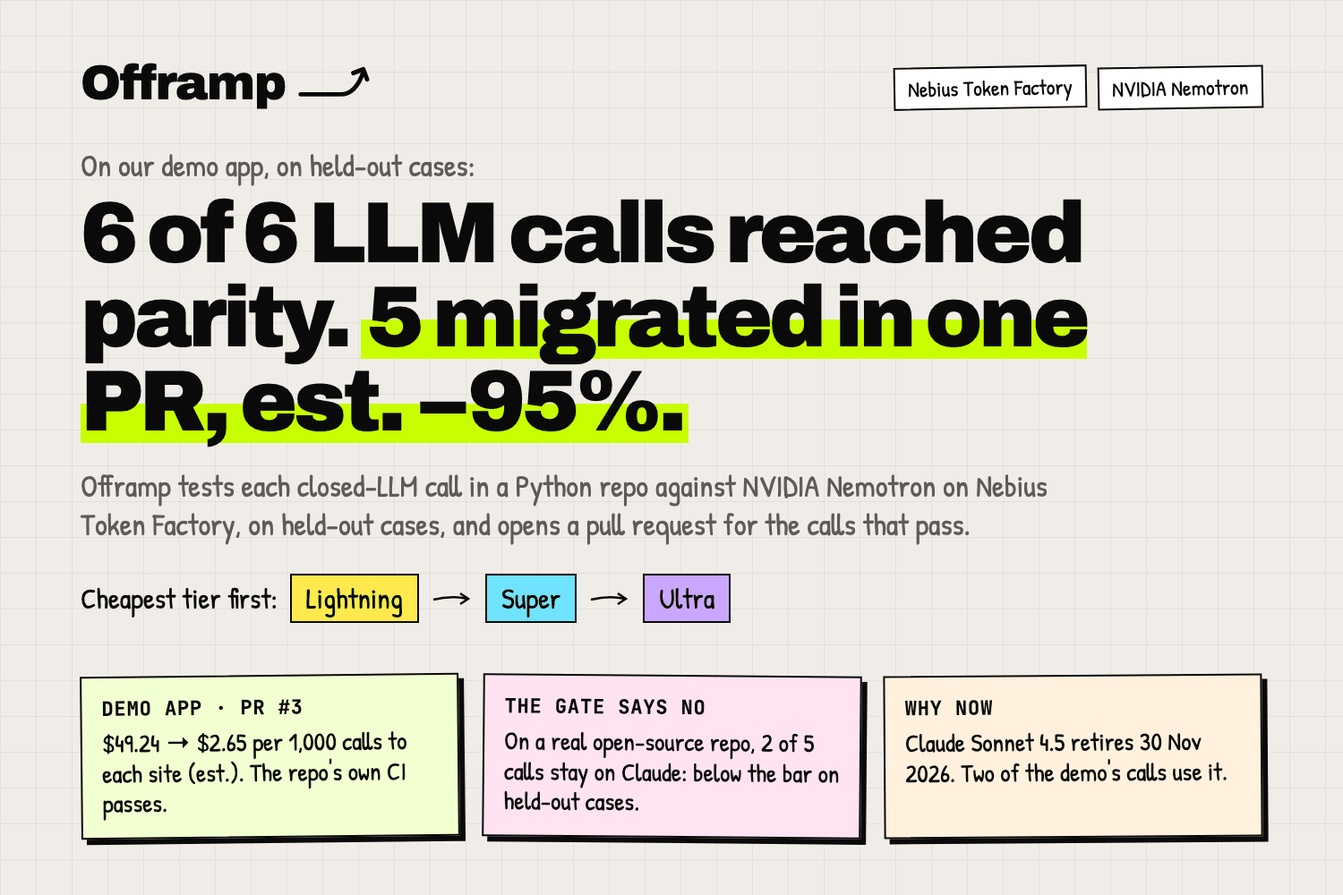
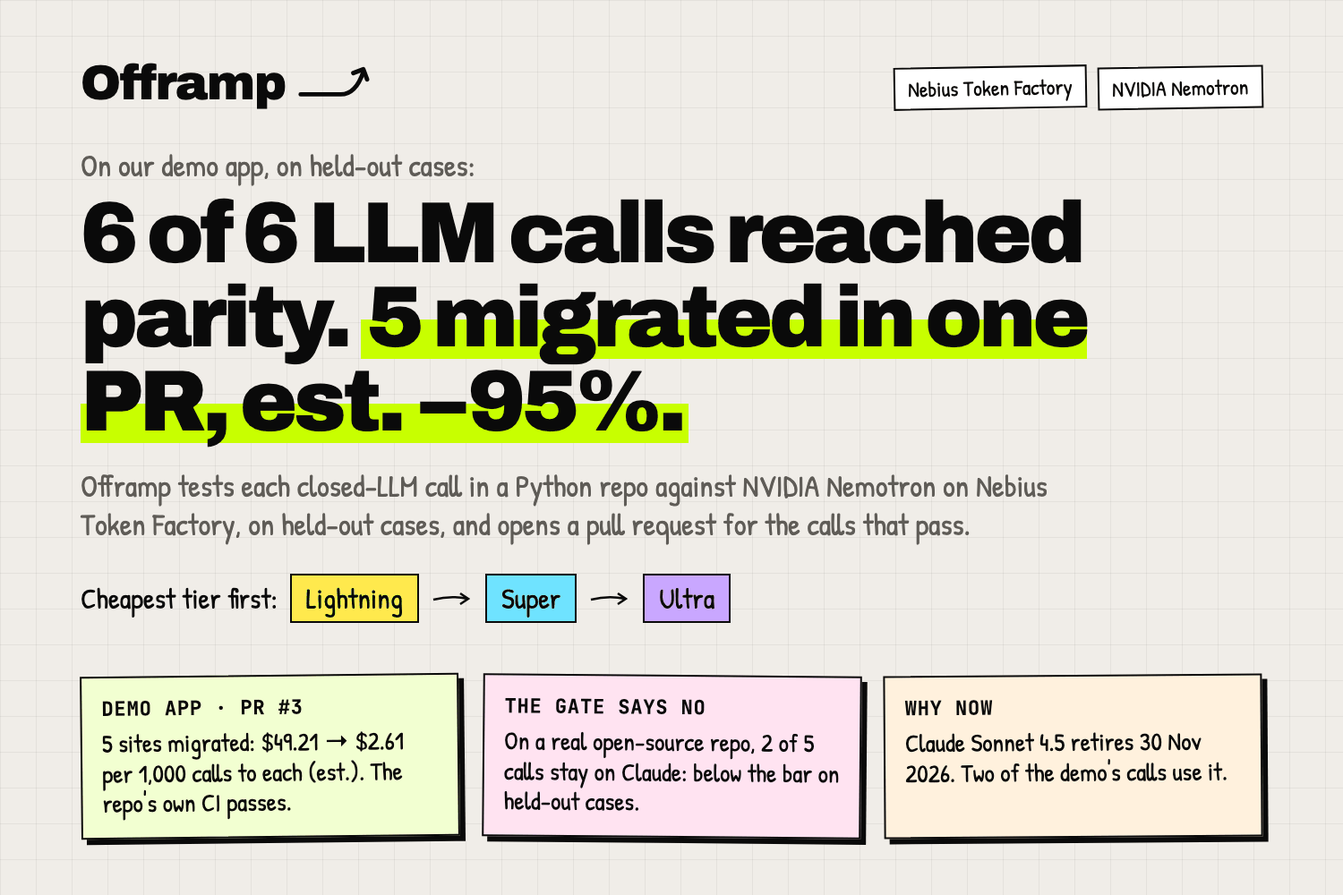
Task 31 D: docs say what happened on the open-source run; cover, footer, references
- README: OSS cs_05 (Super v3 was v2 again; its dev pass came from a fresh judge
  sample after a deleted cached reply; the holdout still failed; Ultra v2 was v1
  again), the PR's green pytest that exercised neither migrated function (cs_02's
  module skipped on importorskip("fastapi"), cs_04 untested, what a maintainer
  would need), the judge-cache item, 16 rewrites = 14 distinct adapters, the
  "other five" scope, and the 5 deleted judge replies the JSON counts miss.
- SUBMISSION: reference answers instead of "known ground truth", the "other five"
  scope, replay from the cache with run 7bea7c as the exception, Super's repeated
  rewrites on the demo's cs_04.
- FEEDBACK: by-the-numbers and item 20 disclose the 5 judge replies deleted in
  run 7bea7c (at least 6 off the rubric, 1 recorded) and the new cache rule.
- tf_stats.py counts judge requests sent with twice the room (a deleted first
  reply each); tf-production.md/json regenerated from the same cache and runs:
  only that bullet and key are new.
- web: home and report say "reference answers: seeded, computed by code, or
  written by another model family"; a text footer links the source and FEEDBACK
  (a spot is left for the video link).
- docs/media/00-cover.png: card 1 shows PR #3's own figure, $49.21 -> $2.61 on the
  5 migrated sites, rendered from T30's cover.html the way T30 did (Playwright,
  then 256-colour quantise).

Changed region(s): [[0.0613, 0.806, 0.3067, 0.93]]

diff --git a/web/app/page.tsx b/web/app/page.tsx
@@ -20,8 +20,8 @@ export default function NewRunPage() {
         </h1>
         <p className="max-w-xl text-lg leading-relaxed font-medium">
           Offramp finds every OpenAI and Anthropic call in a Python repo and shows, on held-out cases, which ones NVIDIA
-          Nemotron on Nebius Token Factory can take over, by checking them against reference answers with known ground
-          truth. It opens a pull request for the calls that reach the parity bar. The rest stay on their source model,
+          Nemotron on Nebius Token Factory can take over, by checking them against reference answers: seeded, computed
+          by code, or written by another model family. It opens a pull request for the calls that reach the parity bar. The rest stay on their source model,
           with the numbers that show why.
         </p>
         <div className="flex flex-col gap-2">

diff --git a/web/app/layout.tsx b/web/app/layout.tsx
@@ -45,6 +45,18 @@ export default function RootLayout({ children }: LayoutProps<"/">) {
           </div>
         </header>
         <main className="mx-auto max-w-6xl px-4 pt-4 pb-16 sm:px-6">{children}</main>
+        <footer className="mx-auto flex max-w-6xl flex-wrap gap-x-5 gap-y-1 px-4 pb-8 font-hand text-lg text-muted sm:px-6">
+          <a href="https://github.com/vj-io/offramp" className="text-bluepen underline underline-offset-4">
+            Source code
+          </a>
+          <a
+            href="https://github.com/vj-io/offramp/blob/main/docs/FEEDBACK.md"
+            className="text-bluepen underline underline-offset-4"
+          >
+            Feedback on Token Factory and Nemotron
+          </a>
+          {/* The demo video's link goes here once it is uploaded. */}
+        </footer>
       </body>
     </html>
   );

diff --git a/web/app/runs/[id]/report/report-view.tsx b/web/app/runs/[id]/report/report-view.tsx
@@ -312,8 +312,8 @@ function HowMeasured({ summaries, verdicts }: { summaries: CaseSummary[] | undef
         How parity was measured
       </h2>
       <p className="mt-2 font-hand text-xl leading-snug">
-        Parity is agreement with reference answers whose ground truth is known, scored on held-out cases. The source
-        model&apos;s own outputs were never recorded.
+        Parity is agreement with reference answers (seeded, computed by code, or written by another model family),
+        scored on held-out cases. The source model&apos;s own outputs were never recorded.
       </p>
       {withBounds && (
         <p id="bounds-note" className="mt-2 font-hand text-xl leading-snug">

diff --git a/scripts/tf_stats.py b/scripts/tf_stats.py
@@ -34,6 +34,7 @@ from datetime import datetime
 from pathlib import Path
 from typing import Any
 
+from offramp.agents.judge import MAX_TOKENS_BASE, MAX_TOKENS_PER_CASE
 from offramp.tf.budget import EVAL_TARGET_ROLE
 from offramp.tf.client import strip_think, validate_structured
 from offramp.tf.tiers import DEFAULT_MODEL_IDS
@@ -90,6 +91,8 @@ def to_call(entry: dict[str, Any], source: str) -> dict[str, Any]:
     last = messages[-1] if messages else {}
     repair = last.get("role") == "user" and str(last.get("content") or "").startswith(REPAIR_ASK)
     thinking = ((params.get("extra_body") or {}).get("chat_template_kwargs") or {}).get("enable_thinking")
+    cases = len(re.findall(r"(?m)^Case \d+\n<evidence>", str(last.get("content") or "")))
+    room = MAX_TOKENS_BASE + MAX_TOKENS_PER_CASE * cases  # the judge's max_tokens for a batch this size
     return {
         "source": source,
         "model": request["model"],
@@ -109,6 +112,8 @@ def to_call(entry: dict[str, Any], source: str) -> dict[str, Any]:
         "repair_retry": repair,
         "repair_prev": strip_think(str(messages[-2].get("content") or "")) if repair else None,
         "repair_of_synthetic": False,
+        # judge._ask sends a batch again with twice the room only after the first reply did not parse
+        "room_retry": role == "judge" and bool(cases) and params.get("max_tokens") == 2 * room,
     }
 
 
@@ -308,6 +313,7 @@ def aggregate(
         "by_model_thinking_eval_target": by_thinking(eval_target),
         "by_scope": {k[0]: summarise(v) for k, v in sorted(group(calls, "scope").items())},
         "length_calls": [{k: c[k] for k in length_keys} for c in calls if c["finish_reason"] == "length"],
+        "judge_room_retries": dict(sorted(Counter(c["scope"] for c in calls if c["room_retry"]).items())),
         "run_reconciliation": reconcile(calls, runs),
         "run_events": {
             "runs_failed": [{"run_id": r["run_id"], **e} for r in runs for e in r["errors"]],
@@ -561,6 +567,17 @@ def render_md(r: dict[str, Any]) -> str:
         else ""
     )
     synthetic_repairs = j["repair_retries_of_synthetic_replies"]
+    room = r["judge_room_retries"]
+    by_run = "; ".join(f"`{k}`: {n}" for k, n in room.items())
+    deleted = (
+        f"{sum(room.values())} judge requests carry twice the judge's `max_tokens` for their batch "
+        f"({by_run}). The judge sends one only after the first reply to the same batch did not match the "
+        "rubric schema, and Offramp deleted that first reply from the cache, so the replies that did not "
+        "parse are in none of the counts here. (Offramp now keeps a first reply when the retry succeeds, and "
+        "deletes both when it fails.)"
+        if room
+        else "No judge request was sent again with twice the room."
+    )
     match_word = "match" if all_ok else "do not all match"
     role_check = (
         f"The per-run Ultra agent-call counts below {match_word} `budget.json`, which checks the split "
@@ -678,6 +695,7 @@ JSON, a `length` finish leaves it truncated and invalid (next section).
 - **Repair retries.** {j["repair_retry_calls"]} calls were repair retries ("Your previous reply is not
   valid"): {synthetic_repairs} answered a synthetic reply (the excluded hand-cut ones, so not provider
   failures) and {j["repair_retry_calls"] - synthetic_repairs} a real reply that failed validation.
+- **Judge replies deleted before this count.** {deleted}
 - **Run errors.** {run_errors}
 - **Not recorded.** HTTP errors, 429s, timeouts, the SDK's automatic retries (up to 3 per call) and the
   one retry on the fallback key: the client caches only successful responses, so a failed request leaves

diff --git a/tests/unit/test_tf_stats.py b/tests/unit/test_tf_stats.py
@@ -189,3 +189,19 @@ def test_load_runs_skips_non_runs_and_reconcile_compares_the_window_with_the_bud
     assert row["matches_budget"]
     runs[0]["budget"]["ultra_agent_calls"] = 2
     assert not stats.reconcile(calls, runs)[0]["matches_budget"]
+
+
+def test_a_judge_request_with_twice_the_room_is_counted_as_a_retry_after_a_deleted_reply():
+    """Task 31 D (review M-4): the judge sends a batch again with twice `max_tokens` only after the first
+    reply did not parse, and deleted that first reply from the cache, so the counts never saw it."""
+    stats = load_script()
+    batch = "Case 1\n<evidence>\nq\n</evidence>\n\nCase 2\n<evidence>\nq\n</evidence>"  # two cases
+
+    def judge(max_tokens, system=JUDGE):
+        e = entry('{"a": 1}', system=system, fmt=JSON_SCHEMA)
+        e["request"]["messages"][-1]["content"] = batch
+        e["request"]["params"]["max_tokens"] = max_tokens
+        return stats.to_call(e, "cache")
+
+    assert [judge(2 * (400 + 150 * 2))["room_retry"], judge(400 + 150 * 2)["room_retry"]] == [True, False]
+    assert judge(2 * (400 + 150 * 2), system=APP)["room_retry"] is False  # not a judge call

diff --git a/README.md b/README.md
@@ -7,7 +7,7 @@ Offramp turns "we should try open models" into a pull request you can review. It
 **On our demo app** (run `20261022-014146107-57cca9`, 2026-10-22):
 
 - **6 of 6 call sites reached the parity bar on a Nemotron tier**, on held-out cases.
-- **5 migrated in one pull request, [vj-io/offramp-demo-app#3](https://github.com/vj-io/offramp-demo-app/pull/3).** Estimated cost per 1,000 calls to each site: $49.21 → $2.61 on those 5 (−95%), and $49.24 → $2.65 across all 6 (−95%). One o3 site is most of that; without it the other five go from $9.74 to $1.46 (−85%). [Details](#what-it-would-save).
+- **5 migrated in one pull request, [vj-io/offramp-demo-app#3](https://github.com/vj-io/offramp-demo-app/pull/3).** Estimated cost per 1,000 calls to each site: $49.21 → $2.61 on those 5 (−95%), and $49.24 → $2.65 across all 6 (−95%). One o3 site is most of that; without it, the other five sites (four migrated, plus cs_01 at its source model's price) go from $9.74 to $1.46 (−85%). [Details](#what-it-would-save).
 - **The demo repo's own CI passes on that PR.** Offramp also ran the repo's ruff and pytest in a network-off Docker sandbox, per site and merged.
 - **1 site went to manual review:** the model's edit to its test would have dropped three asserts, so Offramp refused it.
 
@@ -47,7 +47,7 @@ One detail a careful reader will spot: Offramp measured Super's best adapter on 
 **A real repo.** On the open-source repo below, two of five calls stay on Claude, both on held-out cases:
 
 - `_extract_keywords_via_haiku` stays on `claude-haiku-4-5`. Super passed dev after one rewrite, then scored a judge mean of 4.28 on 11 held-out cases, more than 0.3 below the references' mean. Ultra failed dev at every adapter version.
-- `_generate_strategic_analysis` stays on `claude-sonnet-4-20250514`. Super passed dev at its third rewrite, then scored 3.55 on 6 held-out cases, below the 4.0 floor. Ultra failed dev at all four versions (3.31 to 3.77).
+- `_generate_strategic_analysis` stays on `claude-sonnet-4-20250514`. Super's third rewrite was identical to its second, which had failed dev with a judge mean of 2.78. Its outputs came back from the cache unchanged, yet it passed dev at exactly 4.0: an Offramp bug had deleted a cached judge reply, so the judge was asked again live and scored the same outputs differently. The holdout still failed (3.55 on 6 cases, below the 4.0 floor), so the verdict stands. Ultra failed dev at all four versions (3.31 to 3.77); its second rewrite was also identical to its first and was scored the same way (3.74, against 3.77). Both bugs are fixed: a judge reply is kept when its retry succeeds, and a rewrite identical to one already tried is refused before it is evaluated.
 
 ## On a real repo
 
@@ -61,13 +61,13 @@ Run [`20261022-153359255-7bea7c`](https://offramp-seven.vercel.app/runs/demo?rep
 | cs_02 | `api/main.py` `_generate_pivot_hints_llm` | claude-haiku-4-5 | **Migrated** to Super: judge mean 4.61, lowest 4.5, n=6; p50 7.25 s |
 | cs_03 | `api/main.py` `expand_idea_endpoint` | claude-haiku-4-5 | **Manual review**: the prompt is built at runtime, so there are no eval cases |
 | cs_04 | `api/report.py` `_generate_search_angles` | claude-haiku-4-5 | **Migrated** to Super: judge mean 5.0, lowest 5.0, n=9; p50 4.73 s |
-| cs_05 | `api/report.py` `_generate_strategic_analysis` | claude-sonnet-4-20250514 | **Kept**: Super judge mean 3.55 < 4.0, lowest 3.16, n=6, after 3 rewrites |
+| cs_05 | `api/report.py` `_generate_strategic_analysis` | claude-sonnet-4-20250514 | **Kept**: Super judge mean 3.55 < 4.0, lowest 3.16, n=6, after 3 rewrites (the third repeated the second) |
 
 - **Cost on the 2 migrated sites:** $1.61 → $0.35 per 1,000 calls to each site, est. (−78%, the PR title's figure).
 - **No cost estimate for cs_05.** Its source model, `claude-sonnet-4-20250514`, is not in `offramp/evals/pricing.yaml`, and the run's Tavily search found no page that prints an unambiguous price for exactly that model. So Offramp did not estimate its cost (its verdict says "no published price found"), and we added no price we could not source. With cs_03, which has no cases, that leaves 3 of the 5 sites in the run's cost total, and the report says so.
 - **cs_02 passed by a small margin.** The site rule compares means: 4.61 against a bar of 4.59 (the references' mean of 4.89, minus 0.3). Case by case, only 1 of its 6 held-out answers is within 0.3 of its own reference, which is the "16.7%" in the PR. Five answers scored 4.5 or 4.67 against references at 5.0.
 - **Lightning was too slow here.** The repo's client gives up after 30 s. Lightning's dev medians were 64.3 to 97.5 s in this run, measured on 2026-10-22 and served from the cache, so Offramp did not iterate on Lightning for 4 sites. On the demo app on 2026-10-19, Lightning's medians with thinking off were 0.9 to 3.4 s. Both migrated sites answer on Super well inside the timeout. ([FEEDBACK item 19](docs/FEEDBACK.md#19-lightning-was-about-50-times-slower-on-2026-10-22-than-on-2026-10-19).)
-- **Checks.** Both patches passed the repo's own pytest in Docker, alone and merged; the repo configures no ruff. No GitHub Actions run has happened on the fork, so the PR shows no checks.
+- **Checks.** The repo's own pytest passed in Docker with both patches, alone and merged, but no test exercised either migrated function. cs_02's only test module, `tests/test_pivot_hints_llm.py`, starts with `pytest.importorskip("fastapi")`, and the sandbox installs the fork from `pyproject.toml`, which does not install `fastapi`, so the module was skipped before and after the patch. cs_04's function has no test. To run those tests, a maintainer would install `api/requirements.txt`; the tests set only `ANTHROPIC_API_KEY`, while the patched function reads `NEBIUS_API_KEY`, so they would need that set too. Offramp now runs each site's own tests again on the shipped tree and says per site in the PR which ran, or that none did. The repo configures no ruff. No GitHub Actions run has happened on the fork, so the PR shows no checks.
 - **The PR is explicit about what it left.** It adds `openai>=1.50` beside `anthropic`, switches the two migrated functions to `NEBIUS_API_KEY`, and lists every other place that still reads `ANTHROPIC_API_KEY`.
 - **Spend:** $2.38 of Token Factory credit for three runs and two rounds of case generation.
 
@@ -79,7 +79,7 @@ The first two runs on this repo stopped before a PR, because each exposed a bug 
 2. **The Ultra budget ran out on the wrong work.** Run 1 ended every free-text site on `KEEP_CLOSED("budget: Ultra agent call cap reached (40)")`: it iterated failing tiers before checking whether any tier passed, and re-judged results it already had. Offramp now secures a passing tier first, reuses matrix judgments, and keeps the evidence on a budget stop.
 3. **A degenerate adapter almost shipped.** In run 2 the Ultra Iterator wrote a system prompt that repeats the word `utility` about 750 times and loses one of the source's rules. It passed the metric. A sanity gate now refuses adapters that repeat text far more than the source does, or drop its numbered rules.
 4. **Parity ignored the call's own timeout.** The migrated call kept `timeout=30.0`, while Lightning's holdout p50 on that site was 95.2 s, so most production calls would have timed out. A tier now fails when its holdout p50 is over the call's timeout.
-5. **A judge reply cut at `max_tokens` stuck.** An Ultra judge batch ran out of room mid-JSON; the cell was left unscored, and a resume would have been served the same cut reply from the cache. The judge now asks once more with twice the room, and deletes a reply that does not parse from the cache ([FEEDBACK item 20](docs/FEEDBACK.md#20-a-json_schema-reply-cut-at-max_tokens-is-invalid-json)).
+5. **A judge reply cut at `max_tokens` stuck.** An Ultra judge batch ran out of room mid-JSON; the cell was left unscored, and a resume would have been served the same cut reply from the cache. The judge now asks once more with twice the room ([FEEDBACK item 20](docs/FEEDBACK.md#20-a-json_schema-reply-cut-at-max_tokens-is-invalid-json)). Run 3 also deleted the reply that did not parse from the cache, even when the retry succeeded. That made the cs_05 rescoring above possible, and run 3 cannot be replayed from the cache, because some deleted requests were never asked again. A reply is now deleted only when its retry fails too.
 
 ## What it would save
 
@@ -108,7 +108,7 @@ The o3 site (cs_05) is $39.51 of the demo's $49.24 "before". Its estimate prices
 3. **Tier matrix.** Every site runs against Nemotron 3.5 Lightning, then Super, then Ultra, on Nebius Token Factory. Deterministic scorers (JSON schema, label, tool name and arguments, numeric answer) come first; an Ultra judge scores free text.
 4. **Iterate.** When a cheaper tier fails on dev, an Ultra agent rewrites the adapter (prompt, schema, reasoning switch) and the tier runs again, up to 3 times per tier.
 5. **Verdict.** `MIGRATE(tier)` is the cheapest tier that passes dev and then holdout. Otherwise `KEEP_CLOSED(reason)`, with the best tier and its score.
-6. **Patch and PR.** Code rewrites each migrated call (the evaluated request as literal keyword arguments), and Nemotron edits only the tests and test fakes that pinned the old provider, so every change to application code is Offramp's own. The repo's own ruff and tests run in a network-off Docker sandbox, and a site whose tests break goes to manual review. The PR carries the evidence table, failing cases, prices with their sources, and a "What Offramp did NOT change" section.
+6. **Patch and PR.** Code rewrites each migrated call (the evaluated request as literal keyword arguments), and Nemotron edits only the tests and test fakes that pinned the old provider, so every change to application code is Offramp's own. The repo's own ruff and tests run in a network-off Docker sandbox, and a site whose tests break goes to manual review. The PR says, per site, which of its tests ran on the patched code, or that none did. The PR carries the evidence table, failing cases, prices with their sources, and a "What Offramp did NOT change" section.
 
 ## How Nemotron + Token Factory are used
 
@@ -137,7 +137,7 @@ Offramp's code calls only Token Factory for inference, through one client, `offr
 
 Every structured call uses `temperature=0`, `response_format` `json_schema` (JSON mode plus one repair retry when a tier lacks it), an explicit `chat_template_kwargs.enable_thinking`, a per-agent `max_tokens` cap, and an on-disk cache keyed on `sha256(model, messages, params)`. That cache doubles as the test cassettes. Per-run budget defaults: 1.5M input and 300k output tokens on uncached calls, and at most 40 Ultra agent calls; hitting a cap turns the affected sites into `KEEP_CLOSED("budget ...")`, never a crash.
 
-**Token Factory by the numbers.** Over the 1,768 distinct calls Offramp recorded between 2026-10-19 and 2026-10-22, p50 latency was 3.1 s on Lightning, 3.1 s on Super and 3.8 s on Ultra; 0.5% ended on `finish_reason: length`; and 562 of 566 structured replies were valid JSON (the 4 others were cut at `max_tokens`). Lightning's p95 of 110.8 s comes from one slow day ([FEEDBACK item 19](docs/FEEDBACK.md#19-lightning-was-about-50-times-slower-on-2026-10-22-than-on-2026-10-19)). Failed requests leave no record, so the error rate is unknown. Full tables: [docs/evidence/tf-production.md](docs/evidence/tf-production.md).
+**Token Factory by the numbers.** Over the 1,768 distinct calls Offramp recorded between 2026-10-19 and 2026-10-22, p50 latency was 3.1 s on Lightning, 3.1 s on Super and 3.8 s on Ultra; 0.5% ended on `finish_reason: length`; and 562 of 566 structured replies were valid JSON (the 4 others were cut at `max_tokens`). Those counts miss 5 judge replies from the open-source run 3 that did not match the rubric schema: Offramp asked each batch again with twice the room and deleted the first reply from the cache. Lightning's p95 of 110.8 s comes from one slow day ([FEEDBACK item 19](docs/FEEDBACK.md#19-lightning-was-about-50-times-slower-on-2026-10-22-than-on-2026-10-19)). Failed requests leave no record, so the error rate is unknown. Full tables: [docs/evidence/tf-production.md](docs/evidence/tf-production.md).
 
 ### Where Token Factory accelerated the workflow
 
@@ -190,7 +190,7 @@ The final demo run `20261022-014146107-57cca9` (2026-10-22) pointed Offramp at [
 
 - **Cost per 1,000 calls to each site, est.:** cs_01 $0.03 (stays on gpt-4o-mini), cs_02 $3.59 → $0.33, cs_03 $3.17 → $0.28, cs_04 $2.10 → $0.77, cs_05 $39.51 → $1.19, cs_06 $0.84 → $0.046. They add up to the $49.24 → $2.65 above.
 - **The pass rule for free text is the judge mean** (at least 4.0, and no more than 0.3 below the references' mean) plus the holdout floor of 3.0 per case. cs_06 passed on a mean of 4.54; 2 of its 8 holdout cases scored below 4 (3.67 and 3.00), and the PR lists both. One of those answers was in Spanish against an English requirement. The judge scored the reference of cs_06:020 at 1/5; the PR and the report flag it as judged weak, and it stays in.
-- **Iterations.** The Ultra Iterator rewrote an adapter 16 times. cs_04 needed Ultra: 3 rewrites each on Lightning and Super did not reach the bar, and Ultra passed after 1.
+- **Iterations.** Across the six sites, the Ultra Iterator wrote 16 rewrites, 14 of them distinct adapters: cs_04's second and third rewrites on Super were identical to its first. cs_04 needed Ultra: 3 distinct rewrites on Lightning and 1 on Super did not reach the bar, and Ultra passed after 1. (Offramp now refuses a rewrite identical to one already tried, before evaluating it.)
 - **Holdouts are small** (3 to 9 cases per site), so one miss moves a site's parity by 11 to 33 points. The Wilson 95% lower bound says how much a result shows: 100% on 9 cases means, with 95% confidence, a true rate of at least 70%; on 3 cases, only at least 43%. More holdout cases buy certainty cheaply: evaluating them costs cents on Lightning.
 - **References.** cs_01 to cs_03 use seed references, audited blind by Claude Sonnet 5.5 (checked / agreed / dropped: 24 / 21 / 3, 20 / 15 / 5, 19 / 16 / 3). cs_05 uses the oracle. The free-text references for cs_04 and cs_06 were written by Claude Sonnet 5.5 via Claude Code.
 - **Prices.** "Before": each source model's price, checked on the vendor's page through Tavily on 2026-10-22. "After": Token Factory's model API, 2026-10-22.

diff --git a/docs/SUBMISSION.md b/docs/SUBMISSION.md
@@ -23,7 +23,7 @@ Moving a product off a closed LLM API sounds like a base-URL change, and teams h
 Point Offramp at a Python repo. It:
 
 1. **Scans** for every OpenAI, Anthropic, LiteLLM and LangChain call with a deterministic AST pass, and Nemotron 3 Super labels each call's contract: classification, JSON extraction, tool call, free text or reasoning.
-2. **Builds an eval set per call site**, split into dev and holdout by a hash of the case id. Expected outputs are references with known ground truth: seeded (the expected label, record or tool call is chosen first, and Super writes an input that implies it), computed by code, or written by a different model family. Seed references are audited blind.
+2. **Builds an eval set per call site**, split into dev and holdout by a hash of the case id. Expected outputs are reference answers: seeded (the expected label, record or tool call is chosen first, and Super writes an input that implies it), computed by code, or, for free text, written by Claude Sonnet 5.5, a different model family. Seed references are audited blind; the free-text ones were not audited.
 3. **Runs a tier matrix** on Nebius Token Factory: Nemotron 3.5 Lightning, then Nemotron 3 Super, then Nemotron 3 Ultra. Deterministic scorers check schemas, labels, tool names and arguments, and numeric answers; an Ultra judge scores free text.
 4. **Iterates.** When a cheaper tier fails on dev, Nemotron 3 Ultra reads the failing cases and rewrites the adapter (prompt, few-shot examples, schema, reasoning switch), up to 3 times per tier. The Iterator never sees holdout cases.
 5. **Decides** per call site: migrate to the cheapest tier that passes dev and then holdout, keep the source model when no tier does, or hand the site to manual review. When the call sets a timeout, a tier must also answer within it.
@@ -31,7 +31,7 @@ Point Offramp at a Python repo. It:
 
 A dashboard shows it live: stage stepper, call-site cards, a parity-by-tier grid, the log and a report page.
 
-**On our demo app** (a small support-desk app with six chat calls on `gpt-4o-mini`, `gpt-4o`, `o3`, `claude-sonnet-4-5` and `claude-haiku-4-5`), Offramp evaluated 121 cases, 40 of them held out. All 6 call sites reached the parity bar on a Nemotron tier. 5 migrated in [one pull request](https://github.com/vj-io/offramp-demo-app/pull/3): two Claude Sonnet 4.5 calls to Super, the RAG answerer to Ultra, and the o3 refund planner and the Haiku summariser to Lightning. The demo repo's own CI passes on that PR. Estimated cost per 1,000 calls to each site falls from $49.21 to $2.61 on the 5 migrated sites (−95%), and from $49.24 to $2.65 across all 6 (−95%). The o3 site is most of the "before"; without it, the other five go from $9.74 to $1.46 (−85%). The sixth site, the ticket classifier, went to manual review: the model's edit to its test would have dropped three asserts, so Offramp refused it.
+**On our demo app** (a small support-desk app with six chat calls on `gpt-4o-mini`, `gpt-4o`, `o3`, `claude-sonnet-4-5` and `claude-haiku-4-5`), Offramp evaluated 121 cases, 40 of them held out. All 6 call sites reached the parity bar on a Nemotron tier. 5 migrated in [one pull request](https://github.com/vj-io/offramp-demo-app/pull/3): two Claude Sonnet 4.5 calls to Super, the RAG answerer to Ultra, and the o3 refund planner and the Haiku summariser to Lightning. The demo repo's own CI passes on that PR. Estimated cost per 1,000 calls to each site falls from $49.21 to $2.61 on the 5 migrated sites (−95%), and from $49.24 to $2.65 across all 6 (−95%). The o3 site is most of the "before"; without it, the other five sites (four migrated, plus the ticket classifier at its source model's price) go from $9.74 to $1.46 (−85%). The sixth site, the ticket classifier, went to manual review: the model's edit to its test would have dropped three asserts, so Offramp refused it.
 
 **The gate saying no.** Rerun with a team policy of "no Ultra", Offramp kept the RAG answerer on `gpt-4o`: Lightning and Super both failed the dev split, Super with a best judge mean of 4.45, more than 0.3 below the references' mean.
 
@@ -43,7 +43,7 @@ A dashboard shows it live: stage stepper, call-site cards, a parity-by-tier grid
 
 - **Backend:** Python 3.12 with FastAPI, Pydantic and SQLModel; a run is a state machine that streams its events over server-sent events.
 - **Models:** every inference call in Offramp's code goes through one client, the OpenAI Python SDK pointed at Nebius Token Factory. Nemotron 3 Super and Nemotron 3 Ultra are the agents (labelling, case generation, adapter, iterator, judge, patch writer, PR prose), and Nemotron 3.5 Lightning, Super and Ultra are the models under test. Structured calls use `temperature=0`, `json_schema` output, an explicit `enable_thinking` switch and a per-agent token cap.
-- **Cache as cassettes:** every response is stored by a hash of model, messages and parameters. Cache hits are free, a run can be replayed exactly, and the test suite replays real Token Factory output without a key.
+- **Cache as cassettes:** every response is stored by a hash of model, messages and parameters. Cache hits are free, a finished run can be replayed from the cache without a new call, and the test suite replays real Token Factory output without a key. The exception is the open-source PR run `20261022-153359255-7bea7c`: a bug deleted judge replies it would need, and it is fixed for later runs.
 - **Budget guardrails:** caps per run on input and output tokens and on Ultra agent calls; hitting one keeps the affected sites on their source model instead of crashing.
 - **Patching:** an AST rewrite writes the evaluated request into each call site as literal keyword arguments, and a check rejects any model edit to a non-test file. The target repo's own checks run in Docker with the network off, on the repo's tracked files only.
 - **Partners:** Tavily looks up each source model's published price and deprecation notices at run time, and a price is accepted only if the cited page prints it next to that exact model. LangSmith traces every Token Factory call and keeps each site's cases as a dataset. Claude Sonnet 5.5, run through Claude Code during the build, wrote the free-text references and blind-audited the seed references, so Nemotron never grades its own gold.
@@ -51,7 +51,7 @@ A dashboard shows it live: stage stepper, call-site cards, a parity-by-tier grid
 
 ## Challenges we ran into
 
-- **No closed-model keys.** We had only hackathon credits, so the source models' own outputs could not be recorded. We defined parity as agreement with references whose ground truth is known, labelled every reference with where it came from, and audited the seed references blind with a different model family.
+- **No closed-model keys.** We had only hackathon credits, so the source models' own outputs could not be recorded. We defined parity as agreement with reference answers (seeded, computed by code, or written by Claude Sonnet 5.5 for free text), labelled every reference with where it came from, and audited the seed references blind with a different model family.
 - **Super was unreliable at writing shipped code to a spec.** Asked to rewrite call sites from the evaluated adapter, Super's patches were rejected on 5 of 6 sites. We moved the call-site rewrite into deterministic code and let the model edit tests only. That took the demo from 1 patched site to 3, and later fixes to the repair loop took it to 5.
 - **A real repo broke our assumptions.** The first two runs on the open-source repo found five bugs in Offramp: repeated eval cases leaking across the dev and holdout splits, an Ultra budget spent on the wrong work, a degenerate adapter (one word repeated about 750 times) that passed the metric, parity measured without the call's own 30 s timeout, and a judge reply cut at `max_tokens` that the cache kept serving. We fixed each, with tests, before the run that opened the PR.
 - **Nemotron and Token Factory specifics:** reasoning is on by default and its tokens count toward `max_tokens`; Lightning with `tool_choice="required"` looped until the token cap; and on 2026-10-22 Lightning answered about 50 times slower than on 2026-10-19 for replies of the same size. `docs/FEEDBACK.md` has priorities, evidence and repro steps.
@@ -81,7 +81,7 @@ A dashboard shows it live: stage stepper, call-site cards, a parity-by-tier grid
 ## What we learned
 
 - Deterministic scorers should decide wherever they can. `json_schema` and tool calling worked on all three Nemotron tiers, so only free-text sites needed a judge.
-- The cheapest tier is often enough, but not always: on the demo, three sites passed on Lightning (one of them then went to manual review), two needed Super, and the RAG answerer needed Ultra after Lightning and Super each failed three adapter rewrites.
+- The cheapest tier is often enough, but not always: on the demo, three sites passed on Lightning (one of them then went to manual review), two needed Super, and the RAG answerer needed Ultra after three adapter rewrites on Lightning and one on Super failed (Super's next two rewrites repeated that one).
 - Let models propose and code decide. Every allowance for model edits to shipped code reopened a way for unverified changes to slip through; restricting the model to tests closed it.
 - A real repo is worth more than a polished demo. Two runs on one found five bugs that our demo app never triggered.
 - Honest labels matter more than flattering numbers: "est.", "parity vs reference", "manual review" and the scope of every cost figure.

diff --git a/docs/FEEDBACK.md b/docs/FEEDBACK.md
@@ -28,7 +28,7 @@ From [`docs/evidence/tf-production.md`](evidence/tf-production.md): 1,768 distin
 | Super | 583 | 3.1 s / 12.5 s | 3 (0.5%) | 197 of 197 |
 | Ultra | 653 | 3.8 s / 11.0 s | 4 (0.6%) | 282 of 286 |
 
-Lightning's p95 comes from the calls of 2026-10-22 (item 19). The 4 invalid Ultra replies all ended on `length`. Provider prompt-cache hits, from `prompt_cache_hit_tokens`: Ultra 409,088 of 2,566,410 input tokens (15.9%), Super 912 of 813,222 (0.1%), Lightning none.
+Lightning's p95 comes from the calls of 2026-10-22 (item 19). The 4 invalid Ultra replies all ended on `length`. These counts read Offramp's response cache, so they miss 5 Ultra judge replies from the open-source run `20261022-153359255-7bea7c` that did not match the rubric schema: Offramp asked each batch again with twice the room and deleted the first reply (item 20). Provider prompt-cache hits, from `prompt_cache_hit_tokens`: Ultra 409,088 of 2,566,410 input tokens (15.9%), Super 912 of 813,222 (0.1%), Lightning none.
 
 ## All items
 
@@ -282,9 +282,9 @@ The repo's own client gives up after 30 s, so at that speed Lightning could not 
 
 ### 20. A `json_schema` reply cut at `max_tokens` is invalid JSON
 
-The Ultra judge scores a batch of cases in one call, with a `json_schema` response format (not strict) and thinking off. In run `20261022-065443547-22ed36`, the batch for the open-source repo's cs_05 Lightning dev cell (14 cases, 24,864 prompt tokens) stopped at `max_tokens` 2,500 with `finish_reason: "length"`. The prompt asks for a "note" of one short sentence per case. The 8 complete notes ran from 204 to 1,931 characters, and the JSON was cut inside the ninth entry. The reply did not parse, our response cache had stored it, and the cell was left unscored. It is the one `length` finish among the 141 recorded judge calls.
+The Ultra judge scores a batch of cases in one call, with a `json_schema` response format (not strict) and thinking off. In run `20261022-065443547-22ed36`, the batch for the open-source repo's cs_05 Lightning dev cell (14 cases, 24,864 prompt tokens) stopped at `max_tokens` 2,500 with `finish_reason: "length"`. The prompt asks for a "note" of one short sentence per case. The 8 complete notes ran from 204 to 1,931 characters, and the JSON was cut inside the ninth entry. The reply did not parse, our response cache had stored it, and the cell was left unscored. It is the one `length` finish among the 141 recorded judge calls, but not the only judge reply that failed: in the later run `20261022-153359255-7bea7c`, 5 more judge batches were asked again with twice the room because the first reply did not match the rubric schema. Offramp had deleted those first replies from the cache, so we cannot say how they ended, and they are in none of our counts. At least 6 judge replies were off the rubric; 1 is recorded.
 
-- Workaround: the judge asks once more with twice the `max_tokens`, as a new request, so the cache cannot serve the cut reply; a reply that does not parse is deleted from the cache; a second miss fails the run, which can be resumed.
+- Workaround: the judge asks once more with twice the `max_tokens`, as a new request, so the cache cannot serve the cut reply. A reply that does not parse stays cached while that retry succeeds, so a replay walks the same two requests; when the retry fails too, both are deleted, the run fails, and a resume asks again. Run `20261022-153359255-7bea7c` used an earlier version that deleted the first reply even when the retry succeeded.
 - Ask: (a) say in the docs that a `length` finish voids the schema, or return an error rather than half a document; (b) support `maxLength` on string fields in `json_schema` decoding, so a note's length can be held. Our schema did not set `maxLength`, so we do not know whether it is honoured today. (c) Ultra wrote notes up to 1,931 characters where the prompt asked for one short sentence; guidance on length instructions would help.
 - Evidence: `tests/fixtures/judge/truncated_reply_run_22ed36.json` (the cut reply's text), `tests/agents/test_judge.py::test_a_reply_cut_off_mid_json_is_asked_once_more_with_more_room`, [`docs/evidence/live-observations.md`](evidence/live-observations.md) (E9).
 - Repro: the recorded request is not committed (its prompt holds the open-source repo's eval cases). Any `json_schema` call whose answer outgrows `max_tokens` shows the shape. We did not run this exact request:

diff --git a/docs/evidence/tf-production.md b/docs/evidence/tf-production.md
@@ -177,6 +177,11 @@ a `length` finish leaves it truncated and invalid (next section).
   replies: 4 with finish_reason `length`.
 - **Repair retries.** 3 calls were repair retries ("Your previous reply is not valid"): 2 answered a synthetic
   reply (the excluded hand-cut ones, so not provider failures) and 1 a real reply that failed validation.
+- **Judge replies deleted before this count.** 5 judge requests carry twice the judge's `max_tokens` for their
+  batch (`20261022-153359255-7bea7c`: 5). The judge sends one only after the first reply to the same batch did
+  not match the rubric schema, and Offramp deleted that first reply from the cache, so the replies that did
+  not parse are in none of the counts here. (Offramp now keeps a first reply when the retry succeeds, and
+  deletes both when it fails.)
 - **Run errors.** Runs that ended FAILED: `20261019-220847641-43d3df` at ITERATING: ProviderError: judge: left
   1 case(s) unscored: cs_04:020. Warning events: `20261019-220847641-43d3df`: cs_04 super dev: ProviderError:
   judge: left 1 case(s) unscored: cs_04:020; `20261019-220847641-43d3df`: cs_04 ultra dev: ProviderError:
